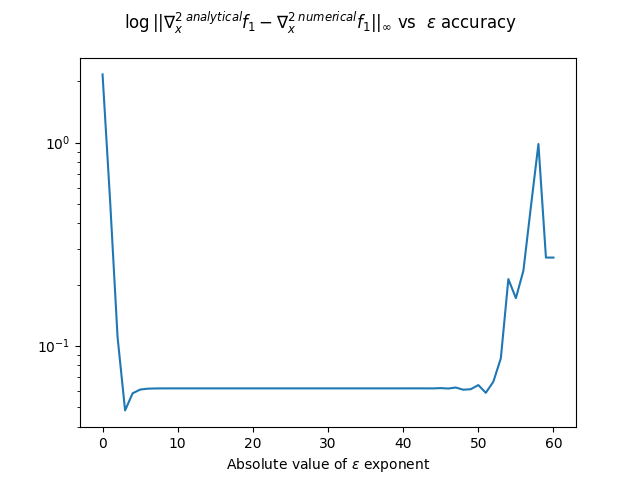
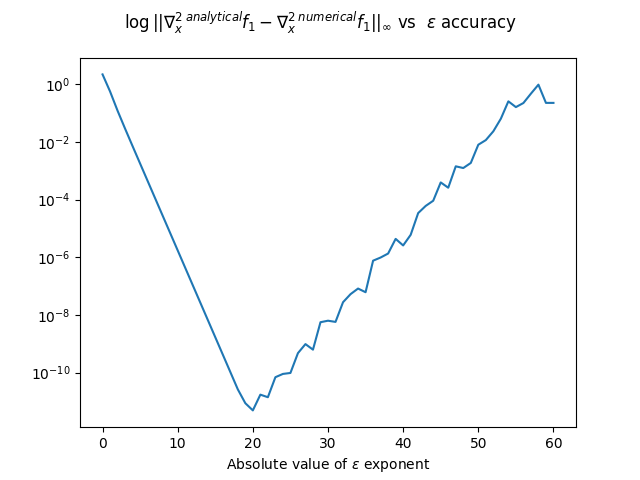
hw1 fix hessian calc

diff --git a/hw1/phi.py b/hw1/phi.py
@@ -24,7 +24,7 @@ def calc_phi_value_grad_hessian(x, calc_grad=True, calc_hessian=True):
         H2_13 = x[0] * np.power(x[1],4) * x[2]
         H2_22 = 4 * np.power(x[0],2) * np.power(x[1],2) * np.power(x[2],2)
         H2_23 = 2 * np.power(x[0],2) * np.power(x[1],3) * x[2]
-        H2_33 = np.power(x[0],2) * np.power(x[1],2)
+        H2_33 = np.power(x[0],2) * np.power(x[1],4)
         H2 = np.array([[H2_11, H2_12, H2_13],
                        [H2_12, H2_22, H2_23],
                        [H2_13, H2_23, H2_33]])
